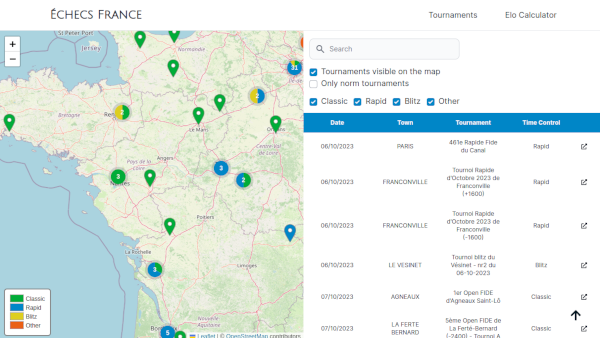
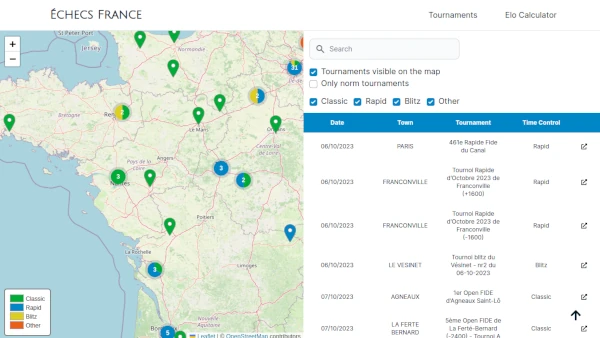
File reduction (#4)
* image size reductions

diff --git a/client/src/components/Hero.tsx b/client/src/components/Hero.tsx
@@ -1,4 +1,4 @@
-import heroImage from "../assets/images/hero_img.png";
+import heroImage from "../assets/images/hero_img.webp";
 import downArrow from "../assets/svg/down-arrow.svg";
 import { LuChevronDownCircle } from "react-icons/lu";
 
@@ -9,8 +9,14 @@ function Hero() {
         <div className="hero-intro">
           <h1 className="hero-title-intro">Hi, I'm Owen Rees</h1>
           <h2 className="hero-title">Fullstack Web & App Developer</h2>
-          <h3 className="hero-subtitle">JavaScript | TypeScript | React | NextJS | NodeJS | Python</h3>
-          <a href="#portfolio" className="hero-portfolio-button" aria-label="portfolio">
+          <h3 className="hero-subtitle">
+            JavaScript | TypeScript | React | NextJS | NodeJS | Python
+          </h3>
+          <a
+            href="#portfolio"
+            className="hero-portfolio-button"
+            aria-label="portfolio"
+          >
             My Portfolio
             <img src={downArrow} alt="down arrow" className="button-arrow" />
           </a>

diff --git a/client/src/components/About.tsx b/client/src/components/About.tsx
@@ -1,4 +1,4 @@
-import design from "../assets/images/design.png";
+import design from "../assets/images/design.webp";
 import {
   LuFolderClosed,
   LuSquareCode,
